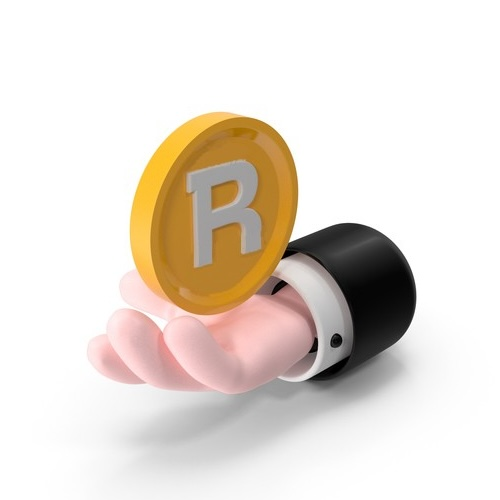
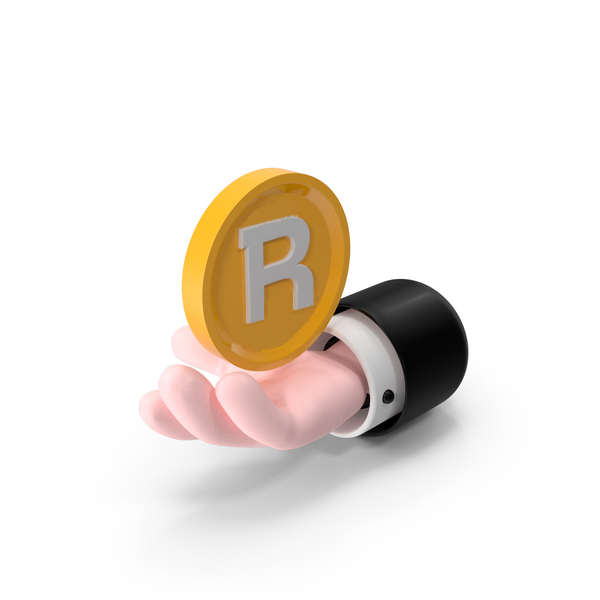
LoginPage Image Changes

Changed region(s): [[0.18, 0.21, 0.84, 0.96]]

diff --git a/frontend/rucores/src/loginPage/MultiColumnFeaturette.js b/frontend/rucores/src/loginPage/MultiColumnFeaturette.js
@@ -1,7 +1,7 @@
 import React from "react";
 import { Col, Container, Row } from "react-bootstrap";
 import image2 from "../assets/RUCoin.jpg";
-import image1 from "../assets/RutgersBlackandRedLogo.jpg";
+import image1 from "../assets/RutgersBlackandRedLogo.png";
 
 // eslint-disable-next-line react/prop-types, no-unused-vars
 function MultiColumnFeaturette({ clickedSection }) {

diff --git a/frontend/rucores/src/loginPage/carouselLogin.js b/frontend/rucores/src/loginPage/carouselLogin.js
@@ -1,6 +1,6 @@
 import React from "react";
 import Carousel from "react-bootstrap/Carousel";
-import bitcoin from "../assets/bitcoin.jpg";
+import bitcoin from "../assets/RUCoinBannerImage.jpg";
 import LabWorkers from "../assets/labWork.jpg";
 import "../assets/Logo-Rutgers-University.jpg";
 import rutgersHealth from "../assets/rutgersHealth.jpg";
